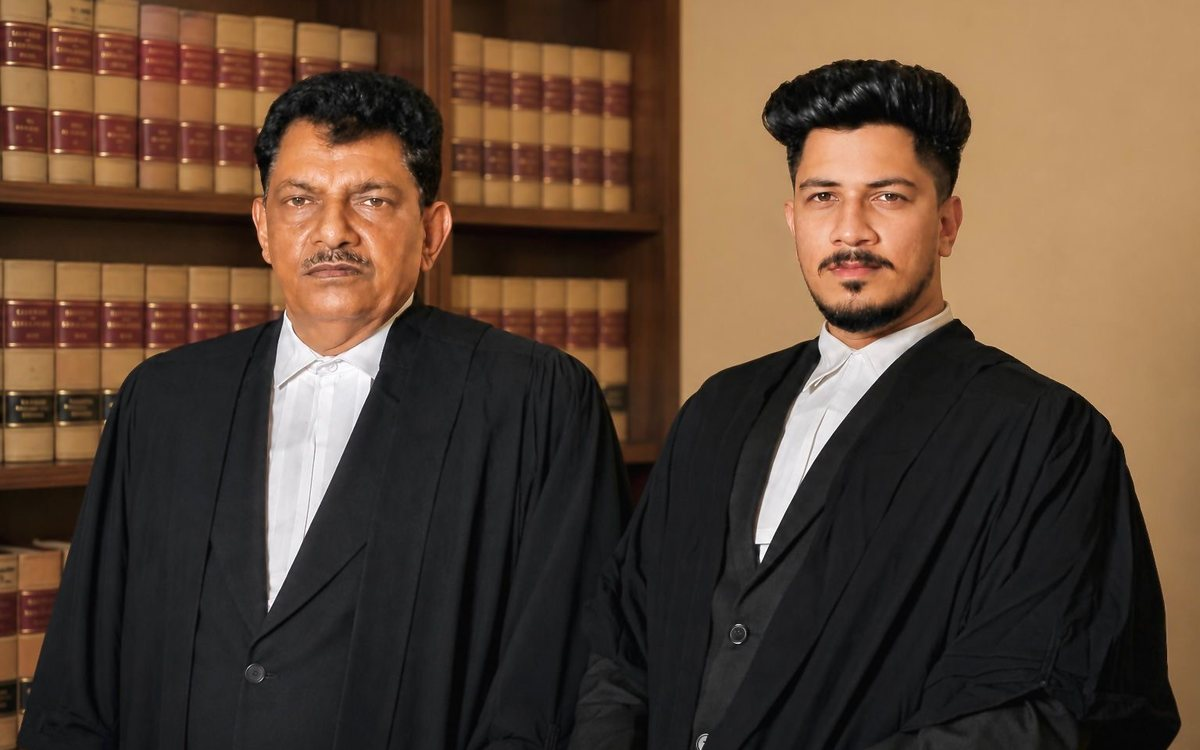
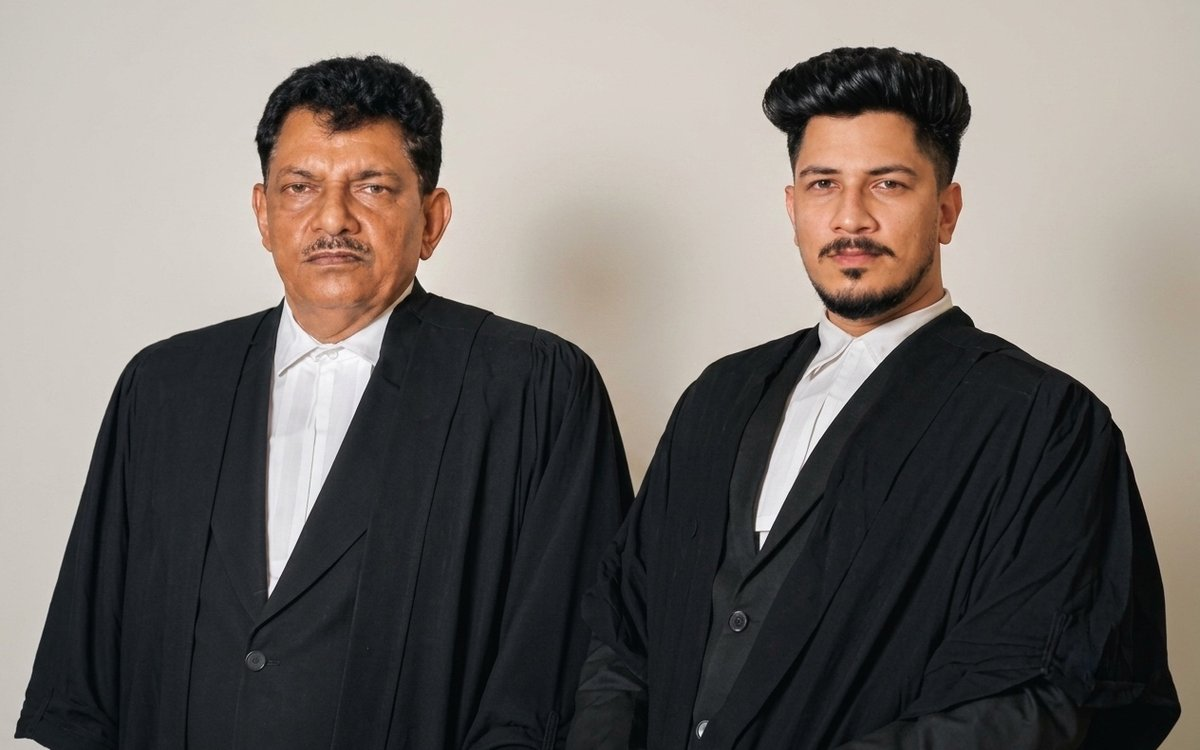
Swap in the plain-backdrop picture of the advocates
Replaces the three crops with ones taken from the newly supplied picture,
which has a plain studio wall behind the two of them instead of a bookcase.
It sits better against the paper background of the pages, where the shelves
had competed with the surrounding text.

Same three places and the same filenames, so no markup moved: the pair on
the home page, and a portrait of each on his own profile page. Each is
cropped to 8:5, and the portraits are framed so that only a shoulder of the
other man is in the picture, never his face.

Three details that follow from the change:

  - The alt text said the men were standing "before the chamber bookshelves",
    which is no longer what the picture shows. That clause is dropped in all
    three languages.

  - The portraits are cut from a narrower part of the frame than before, so
    they are published at 800x500 and 720x450 rather than upscaled to
    1200x750. The width and height attributes now say so, and the reserved
    space is still exactly 8:5, so nothing shifts as they load.

  - The filenames are unchanged but the files are not, and the server tells
    browsers to cache pictures for a day, so the pages now ask for them as
    ?v=2. The structured data keeps the plain URL, which is what a crawler
    should see.

Files are smaller than the ones they replace: 14-88 KB against 28-93 KB.

Claude-Session: https://claude.ai/code/session_01M3qveuap6zgV52y6gTgkvg

diff --git a/hi/advocates/bimlesh-kumar-jain/index.html b/hi/advocates/bimlesh-kumar-jain/index.html
@@ -375,10 +375,10 @@
   <div class="rail">
 <figure class="photo ">
   <picture>
-    <source srcset="/assets/photos/bimlesh-kumar-jain.webp" type="image/webp">
-    <img src="/assets/photos/bimlesh-kumar-jain.jpg" width="1200" height="750"
+    <source srcset="/assets/photos/bimlesh-kumar-jain.webp?v=2" type="image/webp">
+    <img src="/assets/photos/bimlesh-kumar-jain.jpg?v=2" width="800" height="500"
          loading="lazy" decoding="async"
-         alt="अधिवक्ता बिमलेश कुमार जैन, बी.ए. एलएल.बी., सिविल लॉ फर्म, कोलकाता, चैंबर की अलमारियों के सामने अधिवक्ता के परिधान में">
+         alt="अधिवक्ता बिमलेश कुमार जैन, बी.ए. एलएल.बी., सिविल लॉ फर्म, कोलकाता, अधिवक्ता के परिधान में">
   </picture>
 </figure>
     <aside class="factbox">

diff --git a/hi/advocates/aditya-kumar-jain/index.html b/hi/advocates/aditya-kumar-jain/index.html
@@ -376,10 +376,10 @@
   <div class="rail">
 <figure class="photo ">
   <picture>
-    <source srcset="/assets/photos/aditya-kumar-jain.webp" type="image/webp">
-    <img src="/assets/photos/aditya-kumar-jain.jpg" width="1200" height="750"
+    <source srcset="/assets/photos/aditya-kumar-jain.webp?v=2" type="image/webp">
+    <img src="/assets/photos/aditya-kumar-jain.jpg?v=2" width="720" height="450"
          loading="lazy" decoding="async"
-         alt="अधिवक्ता आदित्य कुमार जैन, बी.ए. एलएल.बी., सिविल लॉ फर्म, कोलकाता, चैंबर की अलमारियों के सामने अधिवक्ता के परिधान में">
+         alt="अधिवक्ता आदित्य कुमार जैन, बी.ए. एलएल.बी., सिविल लॉ फर्म, कोलकाता, अधिवक्ता के परिधान में">
   </picture>
 </figure>
     <aside class="factbox">

diff --git a/bn/advocates/bimlesh-kumar-jain/index.html b/bn/advocates/bimlesh-kumar-jain/index.html
@@ -375,10 +375,10 @@
   <div class="rail">
 <figure class="photo ">
   <picture>
-    <source srcset="/assets/photos/bimlesh-kumar-jain.webp" type="image/webp">
-    <img src="/assets/photos/bimlesh-kumar-jain.jpg" width="1200" height="750"
+    <source srcset="/assets/photos/bimlesh-kumar-jain.webp?v=2" type="image/webp">
+    <img src="/assets/photos/bimlesh-kumar-jain.jpg?v=2" width="800" height="500"
          loading="lazy" decoding="async"
-         alt="আইনজীবী বিমলেশ কুমার জৈন, বি.এ. এলএল.বি., সিভিল ল ফার্ম, কলকাতা, চেম্বারের বইয়ের আলমারির সামনে আইনজীবীর পোশাকে">
+         alt="আইনজীবী বিমলেশ কুমার জৈন, বি.এ. এলএল.বি., সিভিল ল ফার্ম, কলকাতা, আইনজীবীর পোশাকে">
   </picture>
 </figure>
     <aside class="factbox">

diff --git a/bn/advocates/aditya-kumar-jain/index.html b/bn/advocates/aditya-kumar-jain/index.html
@@ -376,10 +376,10 @@
   <div class="rail">
 <figure class="photo ">
   <picture>
-    <source srcset="/assets/photos/aditya-kumar-jain.webp" type="image/webp">
-    <img src="/assets/photos/aditya-kumar-jain.jpg" width="1200" height="750"
+    <source srcset="/assets/photos/aditya-kumar-jain.webp?v=2" type="image/webp">
+    <img src="/assets/photos/aditya-kumar-jain.jpg?v=2" width="720" height="450"
          loading="lazy" decoding="async"
-         alt="আইনজীবী আদিত্য কুমার জৈন, বি.এ. এলএল.বি., সিভিল ল ফার্ম, কলকাতা, চেম্বারের বইয়ের আলমারির সামনে আইনজীবীর পোশাকে">
+         alt="আইনজীবী আদিত্য কুমার জৈন, বি.এ. এলএল.বি., সিভিল ল ফার্ম, কলকাতা, আইনজীবীর পোশাকে">
   </picture>
 </figure>
     <aside class="factbox">

diff --git a/advocates/bimlesh-kumar-jain/index.html b/advocates/bimlesh-kumar-jain/index.html
@@ -375,10 +375,10 @@
   <div class="rail">
 <figure class="photo ">
   <picture>
-    <source srcset="/assets/photos/bimlesh-kumar-jain.webp" type="image/webp">
-    <img src="/assets/photos/bimlesh-kumar-jain.jpg" width="1200" height="750"
+    <source srcset="/assets/photos/bimlesh-kumar-jain.webp?v=2" type="image/webp">
+    <img src="/assets/photos/bimlesh-kumar-jain.jpg?v=2" width="800" height="500"
          loading="lazy" decoding="async"
-         alt="Adv Bimlesh Kumar Jain, B.A. LL.B., advocate at Civil Law Firm, Kolkata, in advocate's robes before the chamber bookshelves">
+         alt="Adv Bimlesh Kumar Jain, B.A. LL.B., advocate at Civil Law Firm, Kolkata, in advocate's robes">
   </picture>
 </figure>
     <aside class="factbox">

diff --git a/advocates/aditya-kumar-jain/index.html b/advocates/aditya-kumar-jain/index.html
@@ -376,10 +376,10 @@
   <div class="rail">
 <figure class="photo ">
   <picture>
-    <source srcset="/assets/photos/aditya-kumar-jain.webp" type="image/webp">
-    <img src="/assets/photos/aditya-kumar-jain.jpg" width="1200" height="750"
+    <source srcset="/assets/photos/aditya-kumar-jain.webp?v=2" type="image/webp">
+    <img src="/assets/photos/aditya-kumar-jain.jpg?v=2" width="720" height="450"
          loading="lazy" decoding="async"
-         alt="Adv Aditya Kumar Jain, B.A. LL.B., advocate at Civil Law Firm, Kolkata, in advocate's robes before the chamber bookshelves">
+         alt="Adv Aditya Kumar Jain, B.A. LL.B., advocate at Civil Law Firm, Kolkata, in advocate's robes">
   </picture>
 </figure>
     <aside class="factbox">

diff --git a/hi/index.html b/hi/index.html
@@ -359,8 +359,8 @@
     <div class="pillar-media">
 <figure class="photo ">
   <picture>
-    <source srcset="/assets/photos/home-2.webp" type="image/webp">
-    <img src="/assets/photos/home-2.jpg" width="1200" height="750"
+    <source srcset="/assets/photos/home-2.webp?v=2" type="image/webp">
+    <img src="/assets/photos/home-2.jpg?v=2" width="1200" height="750"
          loading="lazy" decoding="async"
          alt="सिविल लॉ फर्म के अधिवक्ता बिमलेश कुमार जैन तथा अधिवक्ता आदित्य कुमार जैन, अधिवक्ता के परिधान में">
   </picture>

diff --git a/bn/index.html b/bn/index.html
@@ -359,8 +359,8 @@
     <div class="pillar-media">
 <figure class="photo ">
   <picture>
-    <source srcset="/assets/photos/home-2.webp" type="image/webp">
-    <img src="/assets/photos/home-2.jpg" width="1200" height="750"
+    <source srcset="/assets/photos/home-2.webp?v=2" type="image/webp">
+    <img src="/assets/photos/home-2.jpg?v=2" width="1200" height="750"
          loading="lazy" decoding="async"
          alt="সিভিল ল ফার্মের আইনজীবী বিমলেশ কুমার জৈন ও আইনজীবী আদিত্য কুমার জৈন, আইনজীবীর পোশাকে">
   </picture>

diff --git a/index.html b/index.html
@@ -359,8 +359,8 @@
     <div class="pillar-media">
 <figure class="photo ">
   <picture>
-    <source srcset="/assets/photos/home-2.webp" type="image/webp">
-    <img src="/assets/photos/home-2.jpg" width="1200" height="750"
+    <source srcset="/assets/photos/home-2.webp?v=2" type="image/webp">
+    <img src="/assets/photos/home-2.jpg?v=2" width="1200" height="750"
          loading="lazy" decoding="async"
          alt="Adv Bimlesh Kumar Jain and Adv Aditya Kumar Jain of Civil Law Firm, in advocates' robes">
   </picture>
